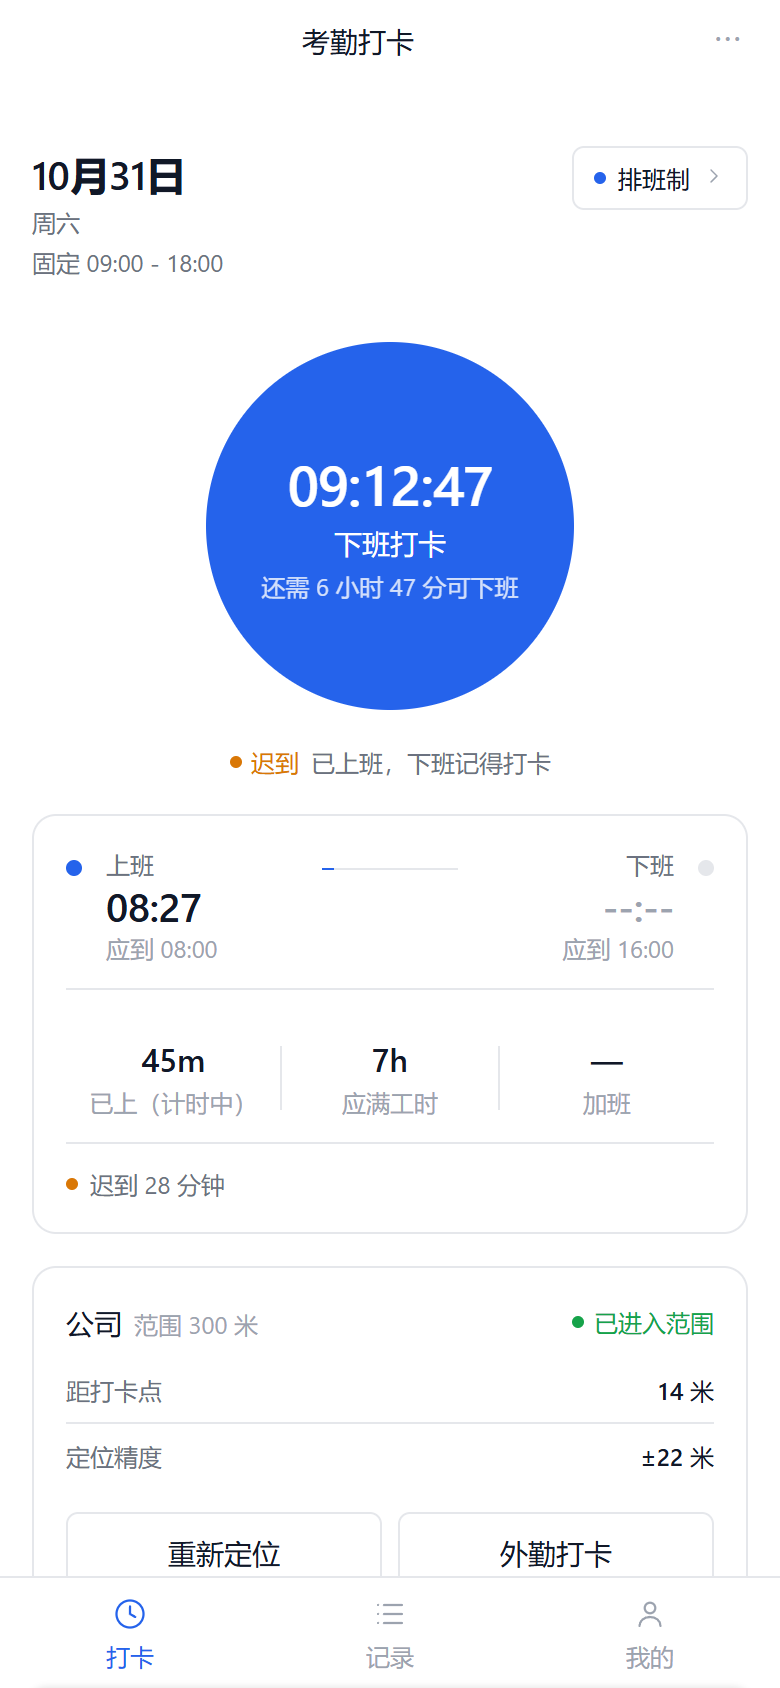
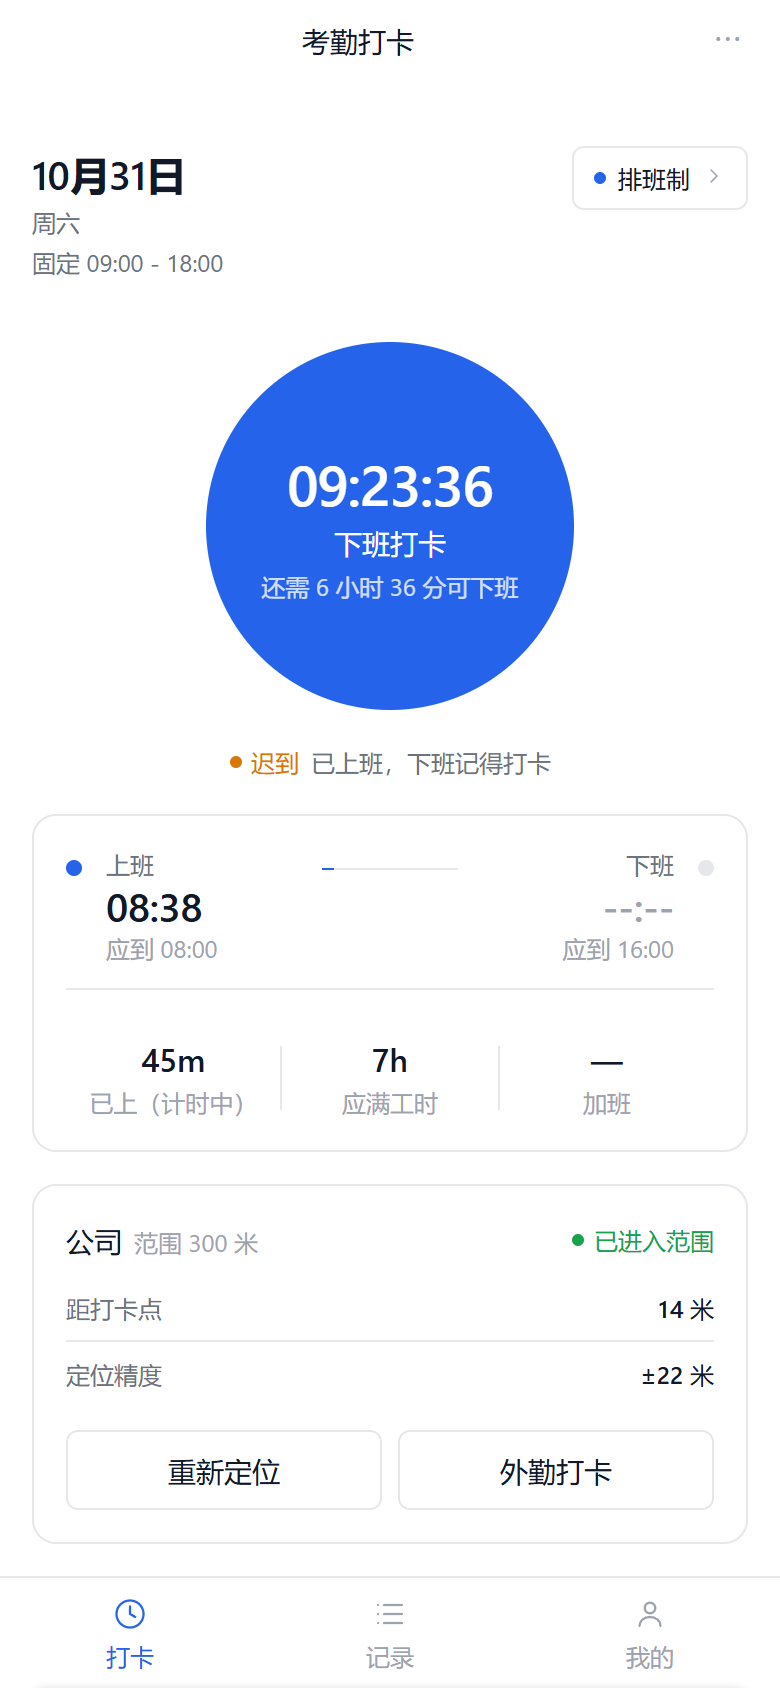
fix(web): 文案自相矛盾与重复提示
- 休息日「今天休息，不用打卡」与按钮「加班打卡」矛盾 -> 改为「休息日，打卡会记为加班」
- 状态标签说「迟到」后 alerts 又重复一次 -> 去重

diff --git a/webapp/app.js b/webapp/app.js
@@ -388,7 +388,8 @@
   function captionOf(s) {
     var r = s.ruleSet;
     var now = s.now;
-    if (s.isRest && !s.day.hasAny) return '今天休息，不用打卡';
+    // 不能写「不用打卡」：休息日按钮仍可点（会记为加班），两句话会自相矛盾
+    if (s.isRest && !s.day.hasAny) return '休息日，打卡会记为加班';
     if (r.type === 'free') {
       if (!s.day.hasAny) return '自由工时 · 任何时间都能打卡，按累计工时计';
       var span = s.day.inAt ? R.diffMinutes(now, s.day.inAt) : 0;
@@ -509,6 +510,10 @@
     if (s.day.missingOut) alerts.push({ label: '下班卡未打', tone: 'bad' });
 
     var statusTagVis = s.day.hasAny && s.status !== 'missing' && s.status !== 'absent';
+    // 状态标签已经把「迟到」说了一次，alerts 里就不再重复同一句
+    if (statusTagVis) {
+      alerts = alerts.filter(function (a) { return a.label.indexOf(s.statusLabel) < 0; });
+    }
     // 休息日且完全没打卡：整块时间轴毫无信息量，直接用一句说明替代
     var restEmpty = s.isRest && !s.day.hasAny;
 
